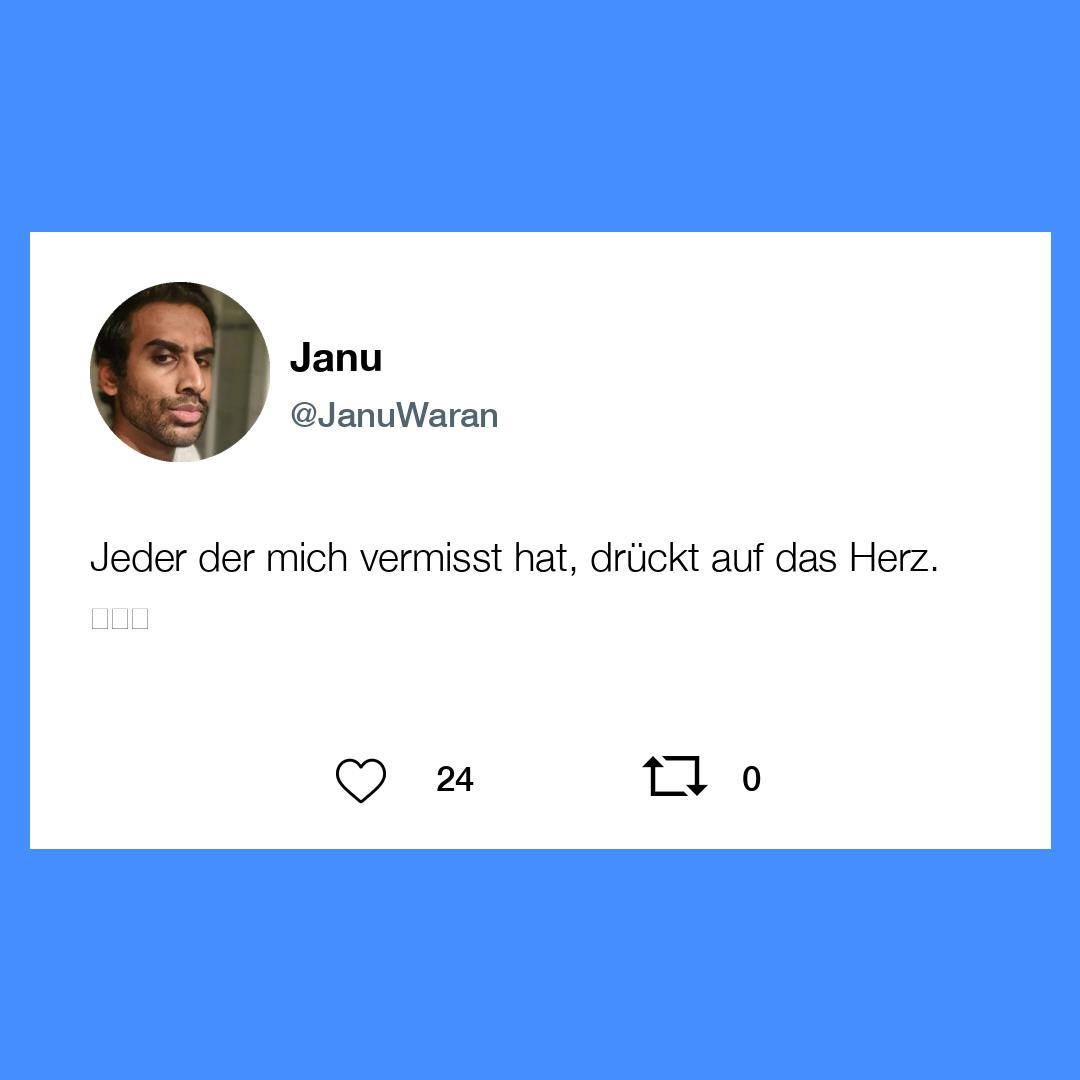
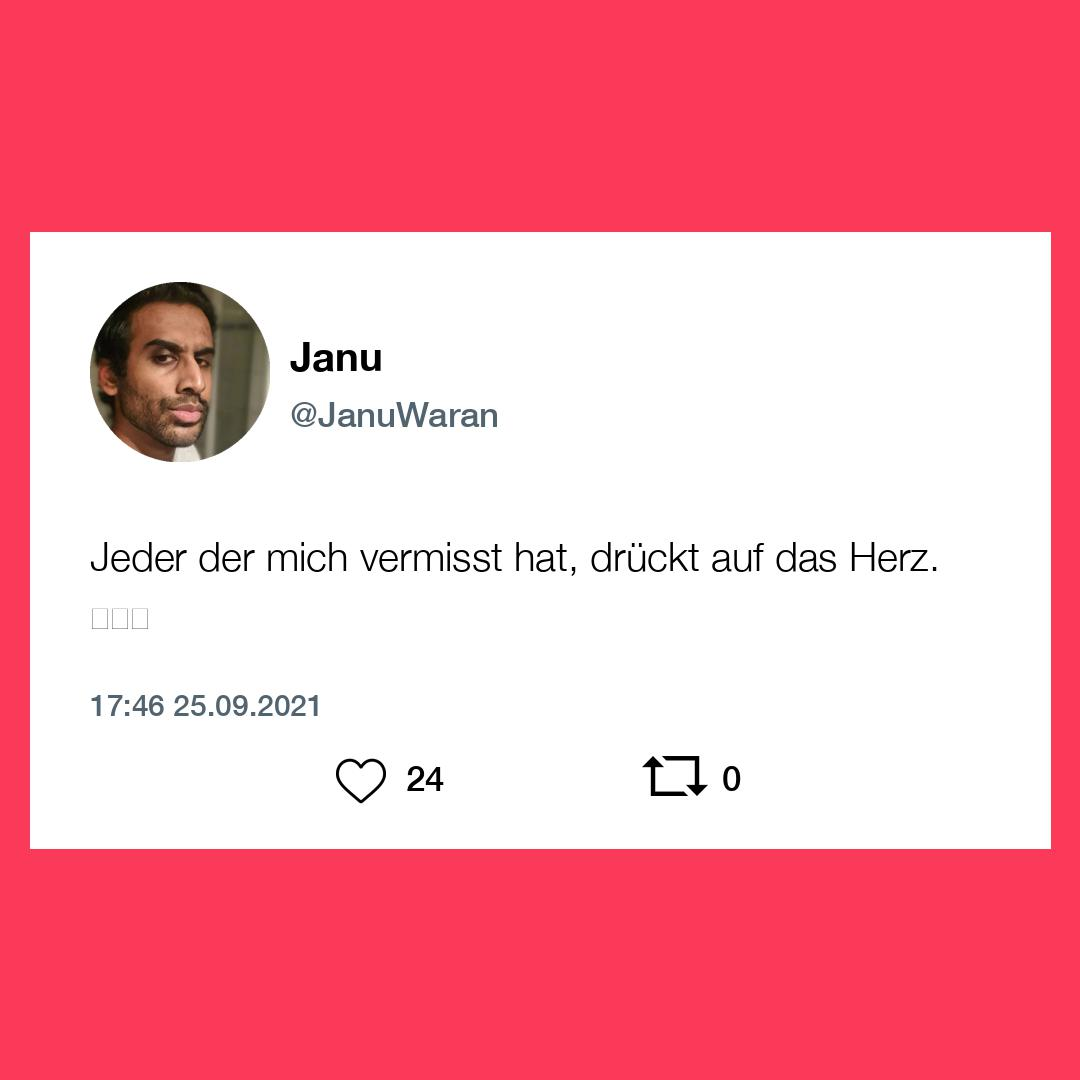
Date on image

diff --git a/main.py b/main.py
@@ -141,7 +141,7 @@ def export_janus_tweets(x, y):
     return the_counter
 
 
-def tweets_to_images(file, handle, name, showFavsRt): 
+def tweets_to_images(file, handle, name, showFavsRt, show_date): 
     # let name empty for original name
     tweets = pd.read_csv(file)
     profile_image = get_profile_image(handle)
@@ -152,17 +152,17 @@ def tweets_to_images(file, handle, name, showFavsRt):
         tweet = tweets['tweet'][ind]
         favs = tweets['favs'][ind]
         retweets = tweets['retweets'][ind]
-        # tweet_timestamp = tweets['date'][ind]
+        tweet_timestamp = tweets['date'][ind]
         tweet_id = tweets['id'][ind]
         media_url = tweets['media_url'][ind]
         color = color_codes[random.randint(0, len(color_codes) - 1)]
         while color2 == color:
           color = color_codes[random.randint(0, len(color_codes) - 1)]
         color2 = color
-        tweet_to_image(name, handle, showFavsRt, tweet, favs, retweets, profile_image, tweet_id, media_url, color[0], color[1], color[2])
+        tweet_to_image(name, handle, showFavsRt, show_date, tweet, tweet_timestamp, favs, retweets, profile_image, tweet_id, media_url, color[0], color[1], color[2])
 
 
-def tweet_to_image(name, username, showFavsRt, tweet, favs, retweets, profile_image, tweet_id, media_url, r, g, b):
+def tweet_to_image(name, username, showFavsRt, show_date, tweet, tweet_timestamp, favs, retweets, profile_image, tweet_id, media_url, r, g, b):
     words = tweet.split(" ")
     to_remove=[]
     tweet_lines = []
@@ -210,6 +210,8 @@ def tweet_to_image(name, username, showFavsRt, tweet, favs, retweets, profile_im
     tw_font = ImageFont.truetype("fonts/HelveticaNeueLight.ttf", 40)
     name_font = ImageFont.truetype("fonts/HelveticaNeueBold.ttf", 40)
     username_font = ImageFont.truetype("fonts/HelveticaNeueMedium.ttf", 35)
+    date_font = ImageFont.truetype("fonts/HelveticaNeueMedium.ttf", 30)
+
     tweet_size = get_text_dimensions(tweet, tw_font)
     tweet_w = (width-900) // 2
     tweet_h = (height-tweet_size[1]) // 2 + 50
@@ -277,8 +279,14 @@ def tweet_to_image(name, username, showFavsRt, tweet, favs, retweets, profile_im
         rt_img = rt_img.resize((66,40))
         img.paste(fav_img, ((tweet_w-60)+int(rectangle_w*0.3),fr_offset+50), fav_img)
         img.paste(rt_img, ((tweet_w-60)+int(rectangle_w*0.6),fr_offset+50), rt_img)
-        draw.text(((tweet_w-60)+int(rectangle_w*0.3)+100, fr_offset+50),str(favs),(0,0,0), font=username_font)
-        draw.text(((tweet_w-60)+int(rectangle_w*0.6)+100, fr_offset+50),str(retweets),(0,0,0), font=username_font)
+        draw.text(((tweet_w-60)+int(rectangle_w*0.3)+70, fr_offset+50),str(favs),(0,0,0), font=username_font)
+        draw.text(((tweet_w-60)+int(rectangle_w*0.6)+80, fr_offset+50),str(retweets),(0,0,0), font=username_font)
+    if show_date:
+        tweet_timestamp2 = tweet_timestamp.split("-")
+        tweet_timestamp3 = tweet_timestamp2[2].split(" ")
+        tweet_timestamp4 = tweet_timestamp3[1].split(":")
+        tweet_timestamp = tweet_timestamp4[0]+":"+tweet_timestamp4[1]+" "+tweet_timestamp3[0]+"."+tweet_timestamp2[1]+"."+tweet_timestamp2[0]
+        draw.text((tweet_w, fr_offset-20),tweet_timestamp,(83,100,113),font=date_font)
     img.save("tweet_images/" + str(tweet_id) + ".jpg")
     print("tweet_images/" + str(tweet_id) + ".jpg saved.")
 
@@ -286,4 +294,4 @@ def tweet_to_image(name, username, showFavsRt, tweet, favs, retweets, profile_im
 # counter = export_janus_tweets(6701, 30)
 # tweets_to_images("tweet_lists/tweets"+counter+".csv", "JanuWaran")
 # export_janus_tweets(300,20)
-tweets_to_images("tweet_lists/tweets2.csv", "JanuWaran", "Janu", True)
+tweets_to_images("tweet_lists/tweets2.csv", "JanuWaran", "Janu", True, True)
